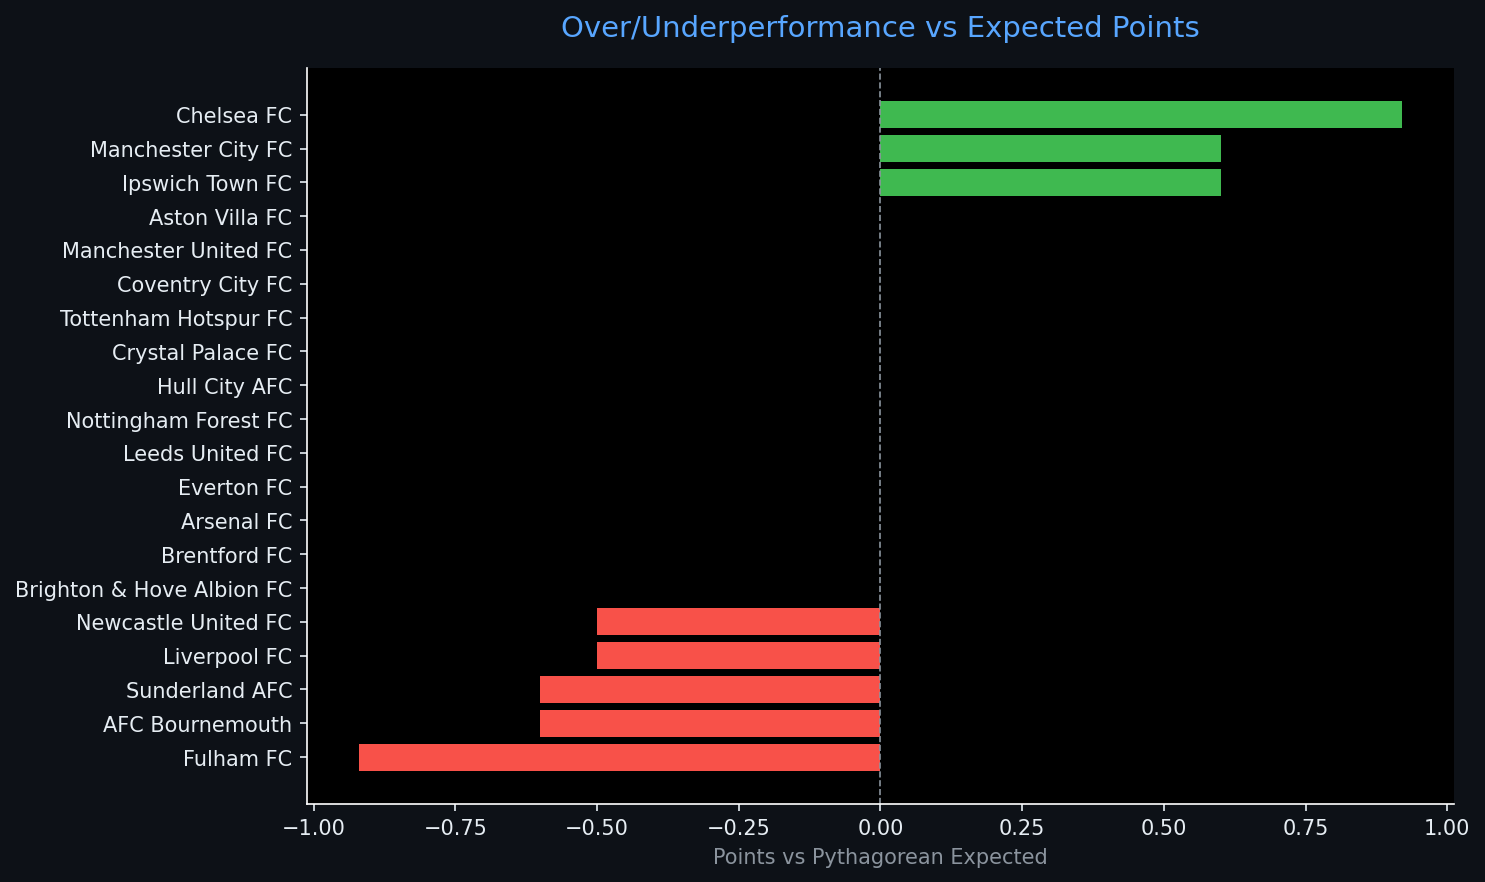
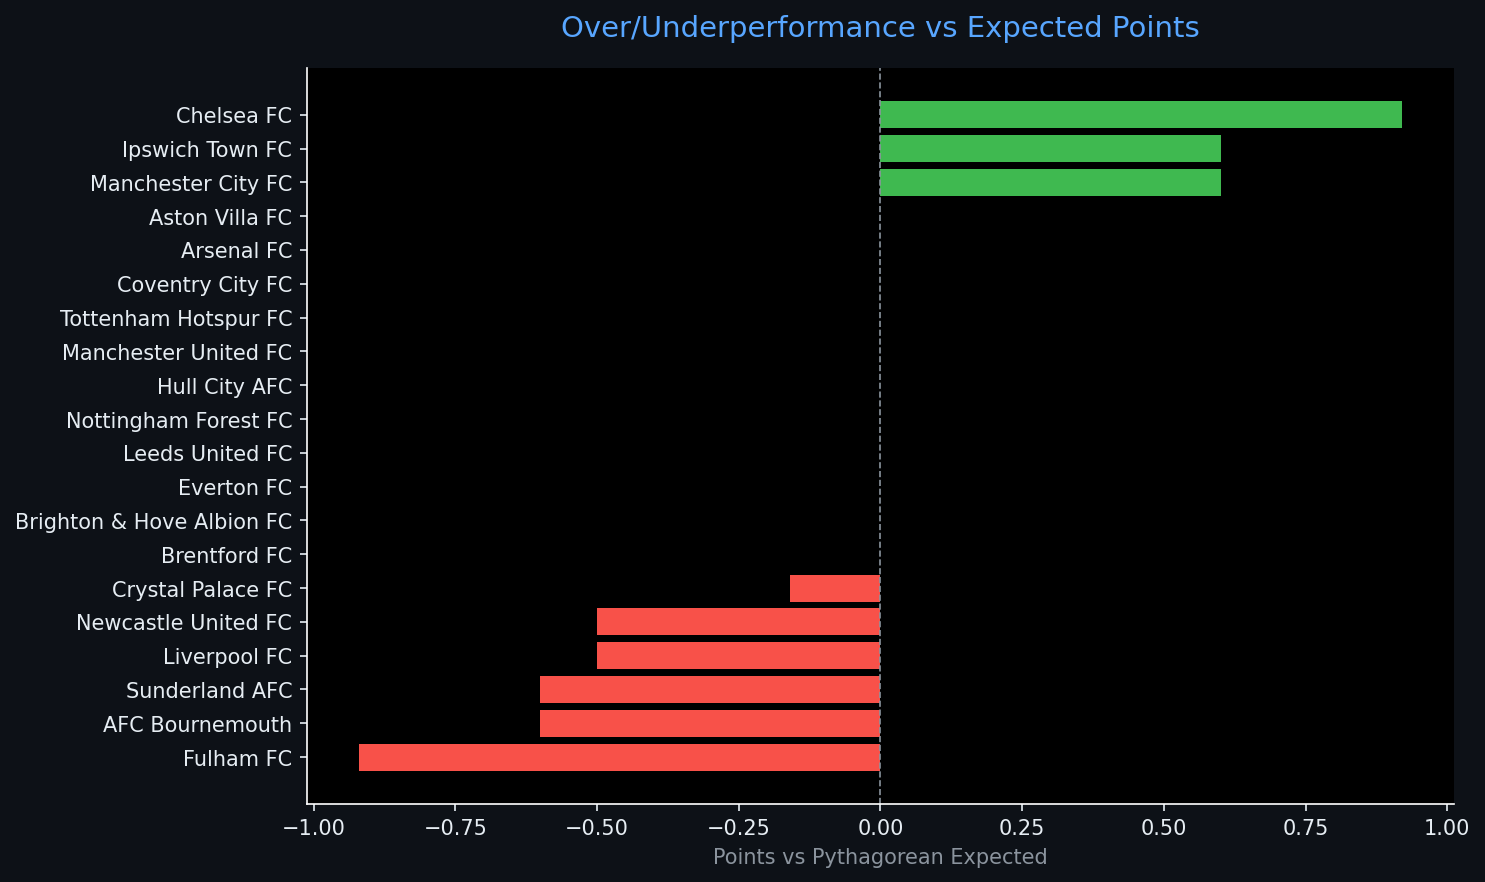
Automated ETL data update: 2026-08-29 00:19

diff --git a/reports/pipeline_report.html b/reports/pipeline_report.html
@@ -4,7 +4,7 @@
 <head>
     <meta charset="UTF-8">
     <meta name="viewport" content="width=device-width, initial-scale=1.0">
-    <title>Sports Data Pipeline Report — 2026-08-28 15:54</title>
+    <title>Sports Data Pipeline Report — 2026-08-29 00:19</title>
     <style>
         body { font-family: 'Segoe UI', sans-serif; background: #0d1117; color: #e6edf3; margin: 0; padding: 2rem; }
         h1   { color: #58a6ff; border-bottom: 1px solid #30363d; padding-bottom: 0.5rem; }
@@ -20,7 +20,7 @@
 </head>
 <body>
     <h1>⚽ Sports Data Pipeline — Automated Report</h1>
-    <p class="meta">Generated: 2026-08-28 15:54 UTC &nbsp;|&nbsp; Sport: <strong>football</strong> &nbsp;|&nbsp; Rows: <strong>20</strong></p>
+    <p class="meta">Generated: 2026-08-29 00:19 UTC &nbsp;|&nbsp; Sport: <strong>football</strong> &nbsp;|&nbsp; Rows: <strong>20</strong></p>
     <span class="badge">Pipeline v1.0.0</span>
     <h2>📊 Data Table</h2>
     <table class="dataframe data-table">
@@ -44,6 +44,21 @@
   <tbody>
     <tr>
       <td>1</td>
+      <td>Manchester City FC</td>
+      <td>2</td>
+      <td>6</td>
+      <td>2</td>
+      <td>0</td>
+      <td>0</td>
+      <td>6</td>
+      <td>2</td>
+      <td>1.000</td>
+      <td>3.000</td>
+      <td>0.900</td>
+      <td>NaN</td>
+    </tr>
+    <tr>
+      <td>2</td>
       <td>Brighton &amp; Hove Albion FC</td>
       <td>1</td>
       <td>3</td>
@@ -58,7 +73,7 @@
       <td>NaN</td>
     </tr>
     <tr>
-      <td>2</td>
+      <td>3</td>
       <td>Arsenal FC</td>
       <td>1</td>
       <td>3</td>
@@ -73,7 +88,7 @@
       <td>NaN</td>
     </tr>
     <tr>
-      <td>2</td>
+      <td>3</td>
       <td>Brentford FC</td>
       <td>1</td>
       <td>3</td>
@@ -88,7 +103,7 @@
       <td>NaN</td>
     </tr>
     <tr>
-      <td>4</td>
+      <td>5</td>
       <td>Everton FC</td>
       <td>1</td>
       <td>3</td>
@@ -103,7 +118,7 @@
       <td>NaN</td>
     </tr>
     <tr>
-      <td>4</td>
+      <td>5</td>
       <td>Hull City AFC</td>
       <td>1</td>
       <td>3</td>
@@ -118,7 +133,7 @@
       <td>NaN</td>
     </tr>
     <tr>
-      <td>6</td>
+      <td>7</td>
       <td>Chelsea FC</td>
       <td>1</td>
       <td>3</td>
@@ -133,23 +148,8 @@
       <td>NaN</td>
     </tr>
     <tr>
-      <td>7</td>
+      <td>8</td>
       <td>Ipswich Town FC</td>
-      <td>1</td>
-      <td>3</td>
-      <td>1</td>
-      <td>0</td>
-      <td>0</td>
-      <td>2</td>
-      <td>1</td>
-      <td>1.000</td>
-      <td>3.000</td>
-      <td>0.800</td>
-      <td>NaN</td>
-    </tr>
-    <tr>
-      <td>7</td>
-      <td>Manchester City FC</td>
       <td>1</td>
       <td>3</td>
       <td>1</td>
@@ -269,21 +269,6 @@
     </tr>
     <tr>
       <td>16</td>
-      <td>Crystal Palace FC</td>
-      <td>1</td>
-      <td>0</td>
-      <td>0</td>
-      <td>0</td>
-      <td>1</td>
-      <td>0</td>
-      <td>2</td>
-      <td>0.000</td>
-      <td>0.000</td>
-      <td>0.000</td>
-      <td>NaN</td>
-    </tr>
-    <tr>
-      <td>16</td>
       <td>Manchester United FC</td>
       <td>1</td>
       <td>0</td>
@@ -298,7 +283,7 @@
       <td>NaN</td>
     </tr>
     <tr>
-      <td>18</td>
+      <td>17</td>
       <td>Coventry City FC</td>
       <td>1</td>
       <td>0</td>
@@ -313,7 +298,7 @@
       <td>NaN</td>
     </tr>
     <tr>
-      <td>18</td>
+      <td>17</td>
       <td>Tottenham Hotspur FC</td>
       <td>1</td>
       <td>0</td>
@@ -328,7 +313,7 @@
       <td>NaN</td>
     </tr>
     <tr>
-      <td>20</td>
+      <td>19</td>
       <td>Aston Villa FC</td>
       <td>1</td>
       <td>0</td>
@@ -340,6 +325,21 @@
       <td>0.000</td>
       <td>0.000</td>
       <td>0.000</td>
+      <td>NaN</td>
+    </tr>
+    <tr>
+      <td>20</td>
+      <td>Crystal Palace FC</td>
+      <td>2</td>
+      <td>0</td>
+      <td>0</td>
+      <td>0</td>
+      <td>2</td>
+      <td>1</td>
+      <td>6</td>
+      <td>0.000</td>
+      <td>0.000</td>
+      <td>0.027</td>
       <td>NaN</td>
     </tr>
   </tbody>
@@ -360,9 +360,9 @@
         
         <tr><td>Total Columns</td><td>29</td></tr>
         
-        <tr><td>Null Values</td><td>98</td></tr>
+        <tr><td>Null Values</td><td>100</td></tr>
         
-        <tr><td>Run Timestamp (UTC)</td><td>2026-08-28T15:54:42.074681</td></tr>
+        <tr><td>Run Timestamp (UTC)</td><td>2026-08-29T00:19:53.801714</td></tr>
         
         <tr><td>ML Features Ready</td><td>False</td></tr>
         
